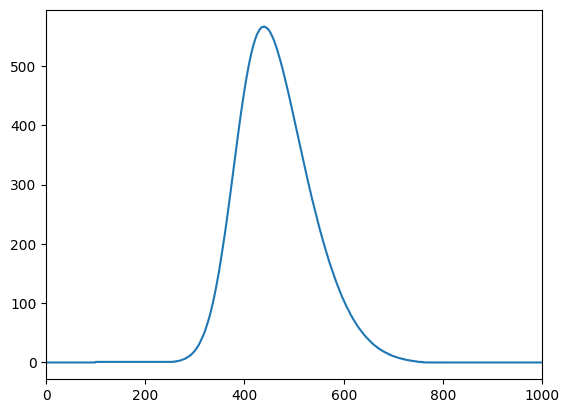
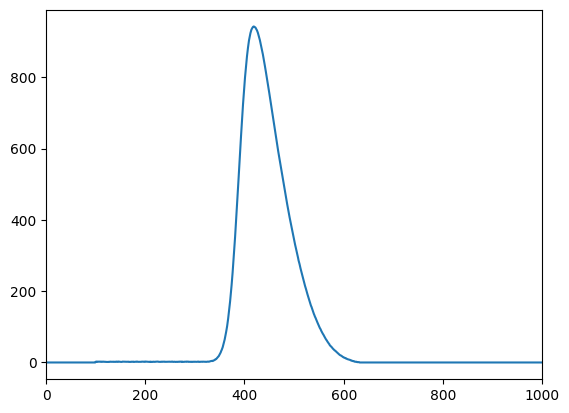
Improve dynamic binding consistency

diff --git a/chromatograpy/simulate.py b/chromatograpy/simulate.py
@@ -24,5 +24,9 @@ def simulate_column_1(n_cells: int, n_steps: int, n_molecules: int, K: float):
     return mobile_phase
 
 
-def fraction_bound(K: float, bound: int, capacity: None) -> float:
-    return K / (1 + K)
+def fraction_bound(K, bound=0, capacity=None):
+    if capacity is None:
+        capacity_term = 1
+    else:
+        capacity_term = np.exp(bound / capacity)
+    return K / (capacity_term + K)

diff --git a/README.md b/README.md
@@ -2,7 +2,7 @@
 
 In this repository we will explore educational simulations of chromatographic processes.
 We will start particularly simple and simulate the chromatographic process with the cell model.
-By the way, the repository name is not a typo. Rather, it is a blend of the term "chromatography" and the fact that the code is written in Python (in .py files).
+By the way, the repository name is not a typo - "chromatography" + "Python".
 
 ## Cell Model
 
@@ -99,7 +99,7 @@ plt.legend()
 
 
 
-    <matplotlib.legend.Legend at 0x111d3f8c0>
+    <matplotlib.legend.Legend at 0x1257138c0>
 
 
 
@@ -156,7 +156,7 @@ plt.legend([f'K={k}' for k in K])
 
 
 
-    <matplotlib.legend.Legend at 0x1120e42d0>
+    <matplotlib.legend.Legend at 0x126bd8190>
 
 
 
@@ -217,7 +217,7 @@ plt.legend([f'K={k}' for k in K])
 
 
 
-    <matplotlib.legend.Legend at 0x11216cf50>
+    <matplotlib.legend.Legend at 0x126c5ce10>
 
 
 
@@ -230,12 +230,13 @@ plt.legend([f'K={k}' for k in K])
 #### Observations
 
 - The lower the affinity to the stationary phase, the earlier the compound elutes.
+- Note that the peak height do not increase because we use fewer molecules for the low-affinity compounds.
 - There is a lower bound to the retention time, which is given by the number of cells in the column - 'dead volume'.
 
 ## Decreasing Binding Affinity with Increasing Bound Molecules
 
 Let's suppose that the binding affinity of the stationary phase decreases with increasing number of bound molecules.
-Instead of using a 'hard stop' we will use a model where $K$ decreases exponentially with 
+Instead of using a 'hard stop' we will use a model where $K$ decreases exponentially with 'occupation'. 
 
 
 ```python
@@ -247,8 +248,7 @@ K = 4
 
 def frac_bound(n_bound):
     # Reform K to a fractional entity - now also depending on loading
-    k = K * np.exp(-n_bound / 30_000)
-    frac_bound = k / (1 + k)
+    frac_bound = K / (np.exp(n_bound/30_000) + K)
     return frac_bound
 
 # Initial state (zero everywhere)
@@ -261,9 +261,10 @@ sum_bound_molecules = np.zeros(n_steps + 1)
 mobile_phase[n_cells] = n_molecules
 
 for step in range(1, n_steps + 1):
-    # Equilibration
+    # Record some information about the column
     max_bound_molecules[step] = np.max(stationary_phase)
     sum_bound_molecules[step] = np.sum(stationary_phase)
+    # Equilibration
     for cell in range(n_cells):
         n_bound_old = stationary_phase[cell]
         n_tot = n_bound_old + mobile_phase[cell + step]
@@ -292,7 +293,7 @@ plt.legend(["max n_bound", "sum n_bound"])
 
 
 
-    <matplotlib.legend.Legend at 0x112262210>
+    <matplotlib.legend.Legend at 0x126d4e0d0>
 
 
 
@@ -318,7 +319,7 @@ plt.legend(["max n_bound", "sum n_bound"])
 
 
 
-    <matplotlib.legend.Legend at 0x112295d10>
+    <matplotlib.legend.Legend at 0x126d81d10>
 
 
 
@@ -340,29 +341,31 @@ K = 4
 
 def frac_bound(n_bound):
     # Reform K to a fractional entity - now also depending on loading
-    k = K * np.exp(-n_bound / 30_000)
-    frac_bound = k / (1 + k)
+    frac_bound = K / (np.exp(n_bound/30_000) + K)
     return frac_bound
 
 # Initial state (zero everywhere)
 stationary_phase = np.zeros(n_cells)
 mobile_phase = np.zeros(n_cells + n_steps)
 max_bound_molecules = np.zeros(n_steps + 1)
+sum_bound_molecules = np.zeros(n_steps + 1)
 
 # Loading of mobile phase in cell just before the stationary phase
 mobile_phase[n_cells] = n_molecules
 
 for step in range(1, n_steps + 1):
-    # Equilibration
+    # Record some information about the column
     max_bound_molecules[step] = np.max(stationary_phase)
+    sum_bound_molecules[step] = np.sum(stationary_phase)
+    # Equilibration
     for cell in range(n_cells):
-        n_bound_old = stationary_phase[cell]
-        n_tot = n_bound_old + mobile_phase[cell + step]
-        # Average fraction of bound molecules with previous step
-        n_frac_old = frac_bound(n_bound_old)
-        n_bound_new = np.floor(n_tot * n_frac_old)
-        n_frac_new = frac_bound(n_bound_new)
-        n_bound = (n_bound_old + n_bound_new) / 2
+        n_bound = stationary_phase[cell]
+        n_tot = n_bound + mobile_phase[cell + step]
+        n_bound_new = np.floor(n_tot * frac_bound(n_bound))
+        # Interate on n_bound until consistent (give us some leeway +/- 1 molecule)
+        while abs(n_bound_new - n_bound) > 1:
+            n_bound = (n_bound_new + n_bound) / 2 # introduces some damping
+            n_bound_new = np.floor(n_tot * frac_bound(n_bound))
         n_free = n_tot - n_bound
         stationary_phase[cell] = n_bound
         mobile_phase[cell + step] = n_free
@@ -373,7 +376,9 @@ plt.show()
 
 # Let's also have a look at the maximum number of bound molecules
 plt.plot(max_bound_molecules, color="orange")
-plt.title("Max Number of Bound Molecules")
+plt.plot(sum_bound_molecules, color="green", linestyle="dashed")
+plt.legend(["max n_bound", "sum n_bound"])
+plt.title("Number of Bound Molecules")
 plt.xlim(0, 100)
 ```
 
